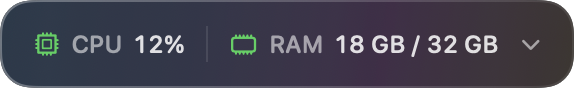
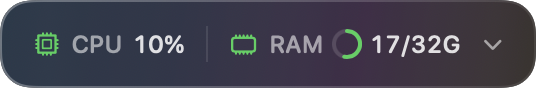
feat: compact RAM usage with progress ring

diff --git a/Sources/PulseBar/Overlay/ChipView.swift b/Sources/PulseBar/Overlay/ChipView.swift
@@ -11,11 +11,7 @@ struct ChipView: View {
             Divider()
                 .frame(height: 18)
 
-            metric(
-                symbol: "memorychip",
-                label: "RAM",
-                value: "\(ByteFormat.shortGB(metrics.memoryUsedBytes)) / \(ByteFormat.shortGB(metrics.memoryTotalBytes))"
-            )
+            memoryMetric
 
             Image(systemName: expanded ? "chevron.up" : "chevron.down")
                 .font(.system(size: 10, weight: .semibold))
@@ -46,11 +42,49 @@ struct ChipView: View {
         }
     }
 
+    private var memoryMetric: some View {
+        HStack(spacing: 5) {
+            Image(systemName: "memorychip")
+                .foregroundStyle(accentColor)
+            Text("RAM")
+                .foregroundStyle(.secondary)
+                .lineLimit(1)
+            MemoryUsageRing(ratio: metrics.memoryUsedRatio, color: accentColor)
+            Text(ByteFormat.compactMemoryUsage(
+                used: metrics.memoryUsedBytes,
+                total: metrics.memoryTotalBytes
+            ))
+            .monospacedDigit()
+            .lineLimit(1)
+            .fixedSize(horizontal: true, vertical: false)
+            .layoutPriority(2)
+        }
+    }
+
     private var accentColor: Color {
         switch metrics.pressure {
         case .normal: .green
         case .warning: .orange
         case .critical: .red
         }
+    }
+}
+
+private struct MemoryUsageRing: View {
+    let ratio: Double
+    let color: Color
+
+    var body: some View {
+        ZStack {
+            Circle()
+                .stroke(.secondary.opacity(0.25), lineWidth: 2)
+            Circle()
+                .trim(from: 0, to: min(max(ratio, 0), 1))
+                .stroke(color, style: StrokeStyle(lineWidth: 2, lineCap: .round))
+                .rotationEffect(.degrees(-90))
+        }
+        .frame(width: 13, height: 13)
+        .animation(.easeOut(duration: 0.2), value: ratio)
+        .accessibilityHidden(true)
     }
 }

diff --git a/Sources/PulseBar/Models/ByteFormat.swift b/Sources/PulseBar/Models/ByteFormat.swift
@@ -20,4 +20,16 @@ enum ByteFormat {
         }
         return String(format: "%.1f GB", gb)
     }
+
+    static func compactMemoryUsage(used: UInt64, total: UInt64) -> String {
+        "\(compactGigabytes(used))/\(compactGigabytes(total))G"
+    }
+
+    private static func compactGigabytes(_ bytes: UInt64) -> String {
+        let gigabytes = Double(bytes) / 1_073_741_824
+        if gigabytes >= 10 || abs(gigabytes.rounded() - gigabytes) < 0.05 {
+            return String(format: "%.0f", gigabytes)
+        }
+        return String(format: "%.1f", gigabytes)
+    }
 }

diff --git a/CHANGELOG.md b/CHANGELOG.md
@@ -7,7 +7,7 @@ All notable changes to PulseBar are documented in this file. PulseBar follows
 
 ### Added
 
-- Compact, translucent CPU and RAM overlay showing used and total memory, anchored near the top-right of the active display.
+- Compact, translucent CPU and RAM overlay with a memory-usage ring and shortened used/total values, anchored near the top-right of the active display.
 - Expandable Processes, Memory, and Clean panels with a configurable gradient appearance.
 - Live CPU and memory sampling with rolling five-minute history charts.
 - Grouped application processes, background-service visibility, search, resource sorting, and protected quit or force-stop actions.

diff --git a/readme.md b/readme.md
@@ -5,7 +5,7 @@ PulseBar is a lightweight, native macOS system monitor for keeping CPU and memor
 PulseBar takes inspiration from the convenience of utilities such as CleanMyMac while remaining an independent, on-device project that is not affiliated with MacPaw.
 
 <p align="center">
-  <img src="docs/images/pulsebar-compact.png" alt="PulseBar compact CPU and used/total RAM monitor" width="574">
+  <img src="docs/images/pulsebar-compact.png" alt="PulseBar compact CPU monitor with RAM usage ring and used/total value" width="536">
 </p>
 
 ## Product tour
